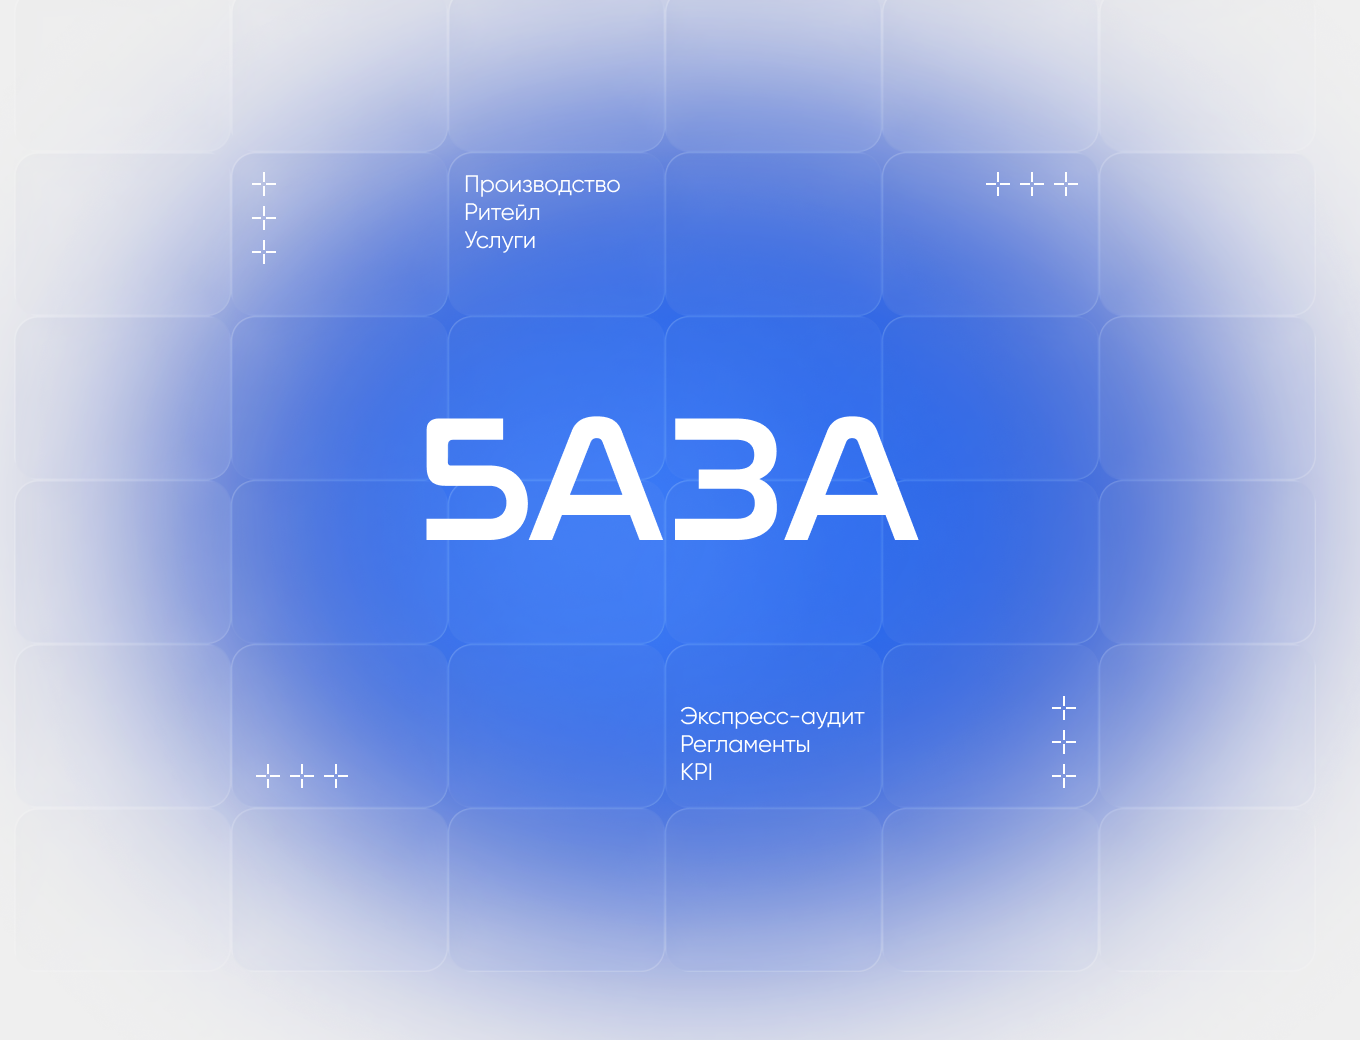
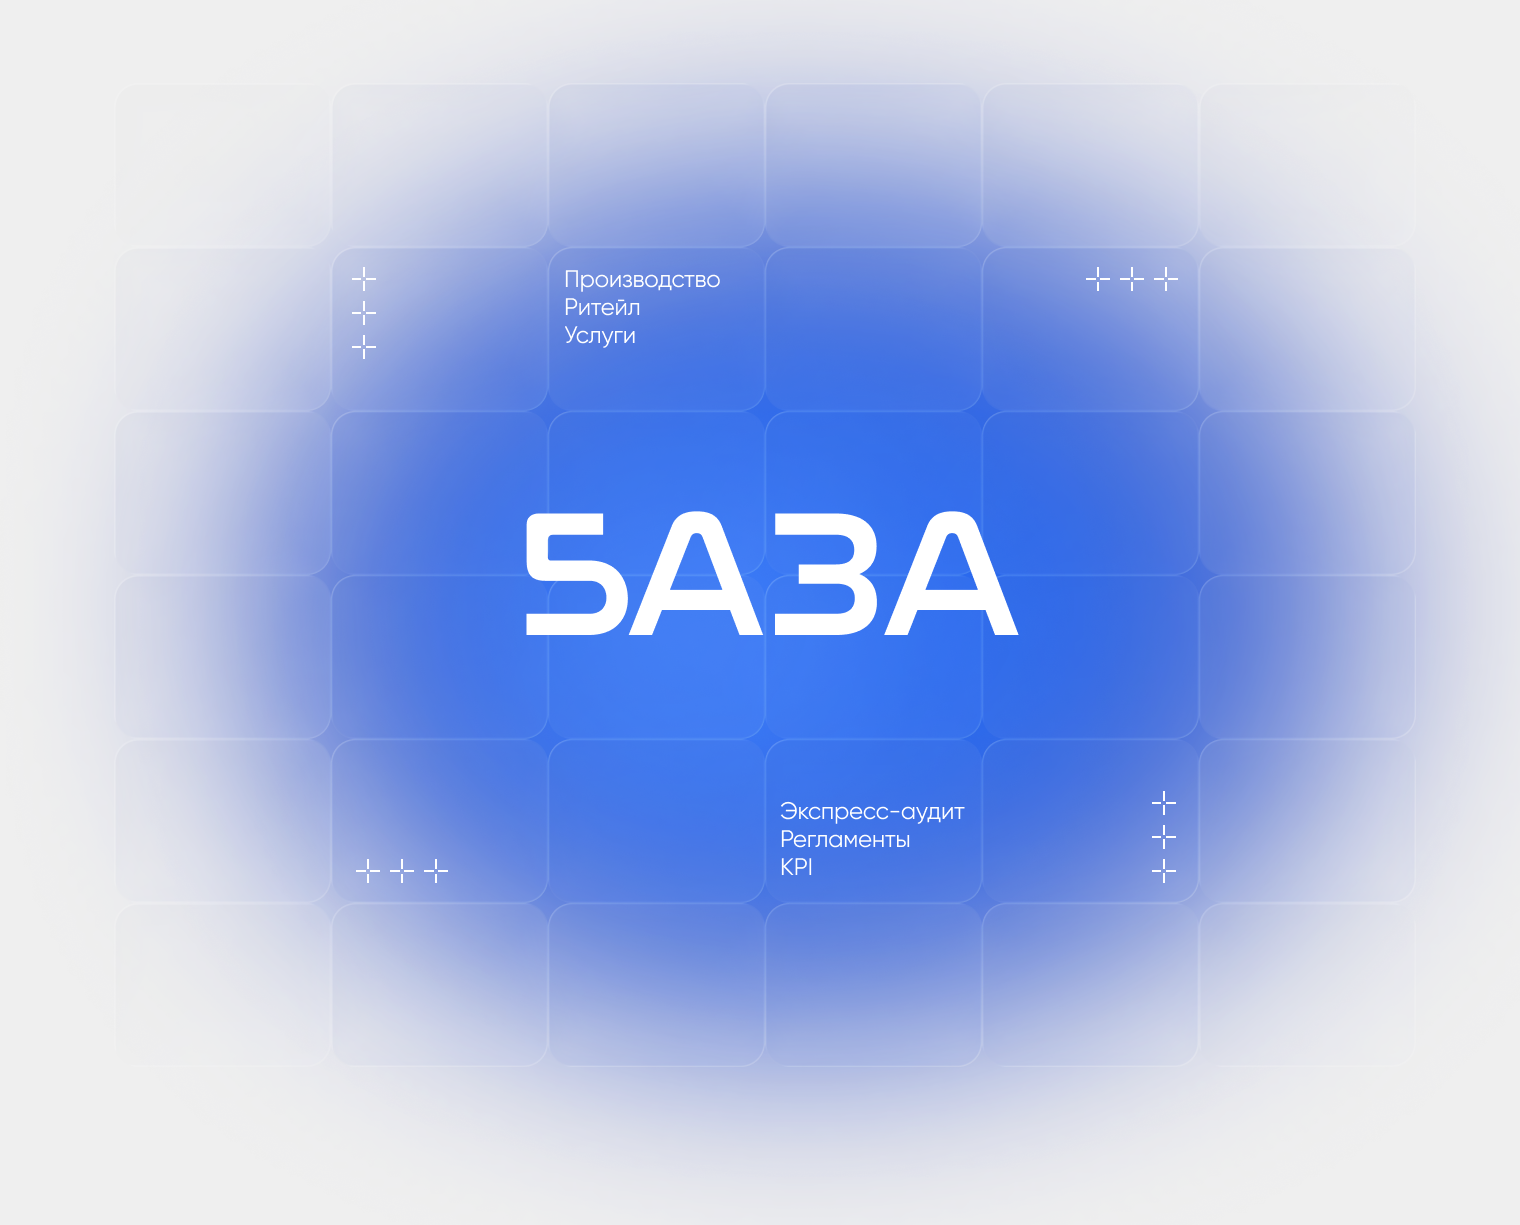
Hero art: wider crop + all-4-edge fade mask so it fully dissolves into bg (no cropped square)

diff --git a/css/style.css b/css/style.css
@@ -1108,8 +1108,14 @@ li.open .ind-body { opacity: 1; }
 .hero__art { position: relative; width: 651px; height: 492px; flex: 0 0 auto; }
 .hero__art img {
   display: block; width: 100%; height: 100%; object-fit: contain;
-  -webkit-mask: radial-gradient(68% 70% at 50% 49%, #000 58%, rgba(0,0,0,0) 100%);
-          mask: radial-gradient(68% 70% at 50% 49%, #000 58%, rgba(0,0,0,0) 100%);
+  -webkit-mask:
+    linear-gradient(to right, rgba(0,0,0,0) 0, #000 10%, #000 90%, rgba(0,0,0,0) 100%),
+    linear-gradient(to bottom, rgba(0,0,0,0) 0, #000 10%, #000 90%, rgba(0,0,0,0) 100%);
+  -webkit-mask-composite: source-in;
+  mask:
+    linear-gradient(to right, rgba(0,0,0,0) 0, #000 10%, #000 90%, rgba(0,0,0,0) 100%),
+    linear-gradient(to bottom, rgba(0,0,0,0) 0, #000 10%, #000 90%, rgba(0,0,0,0) 100%);
+  mask-composite: intersect;
 }
 
 .footer__graphic {